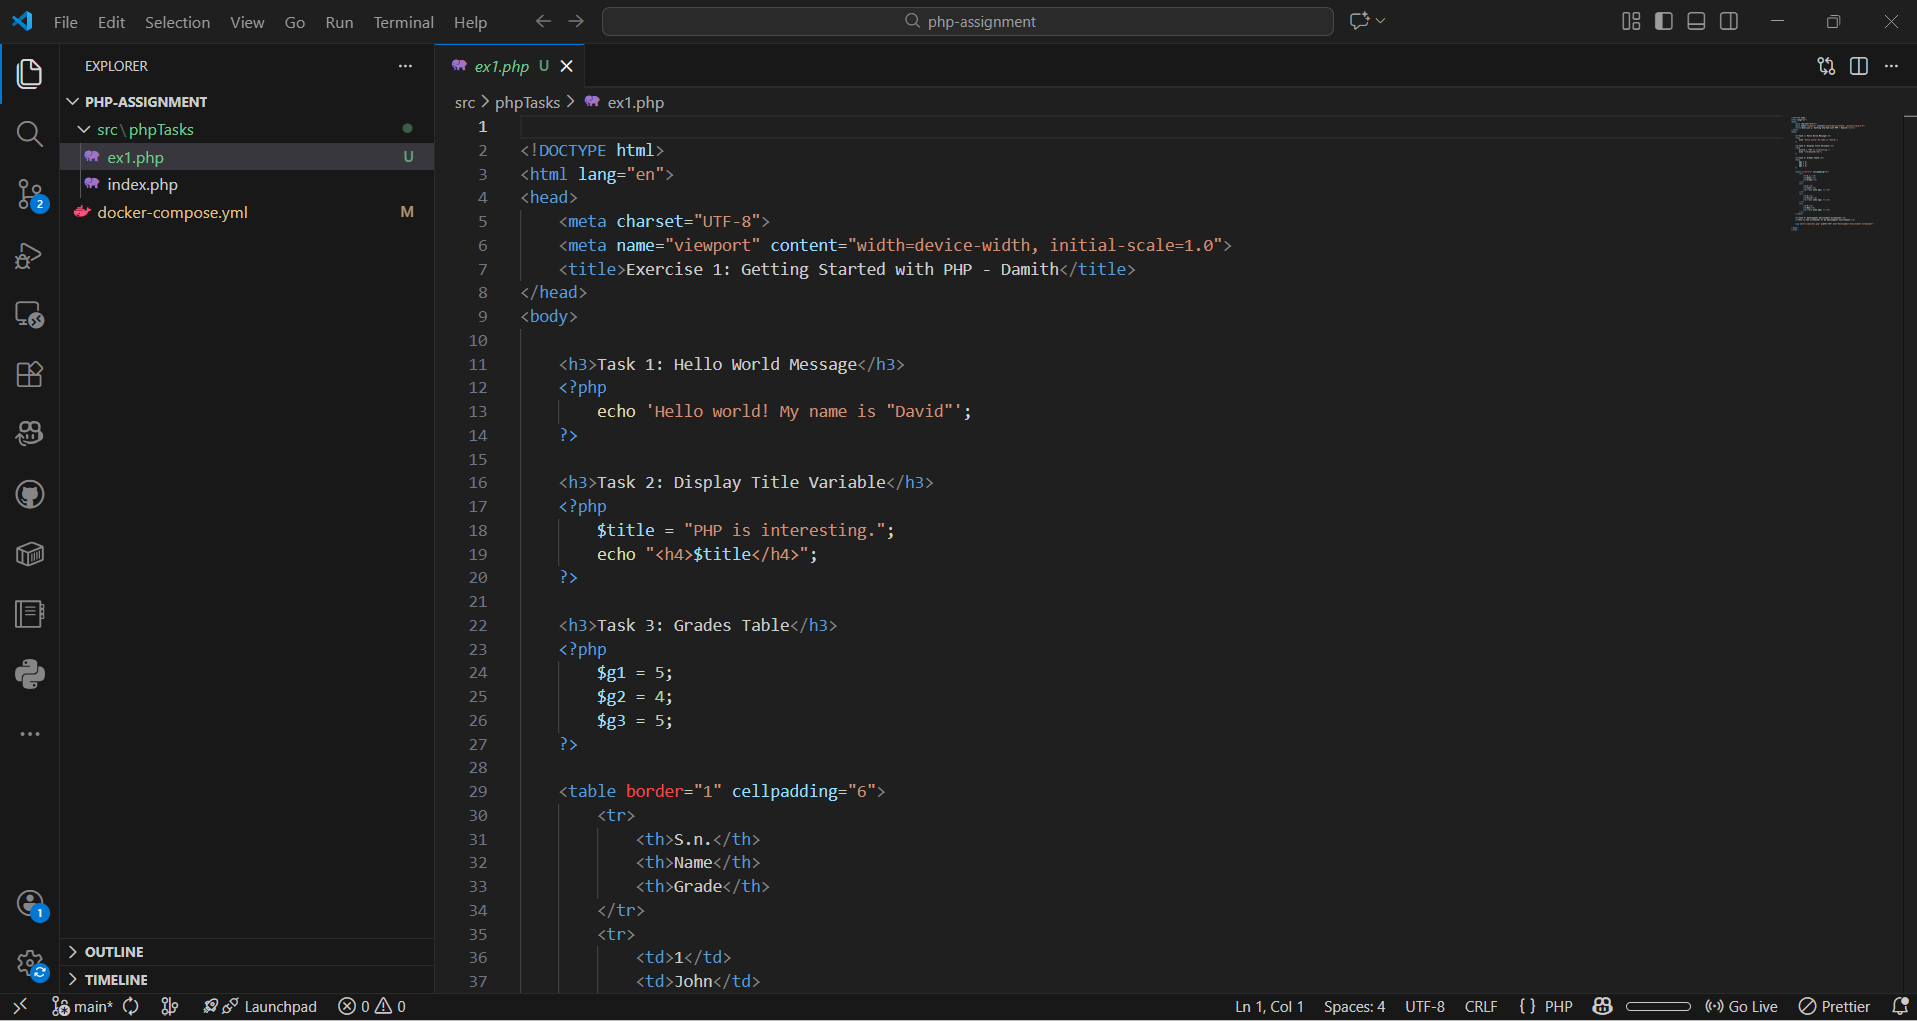
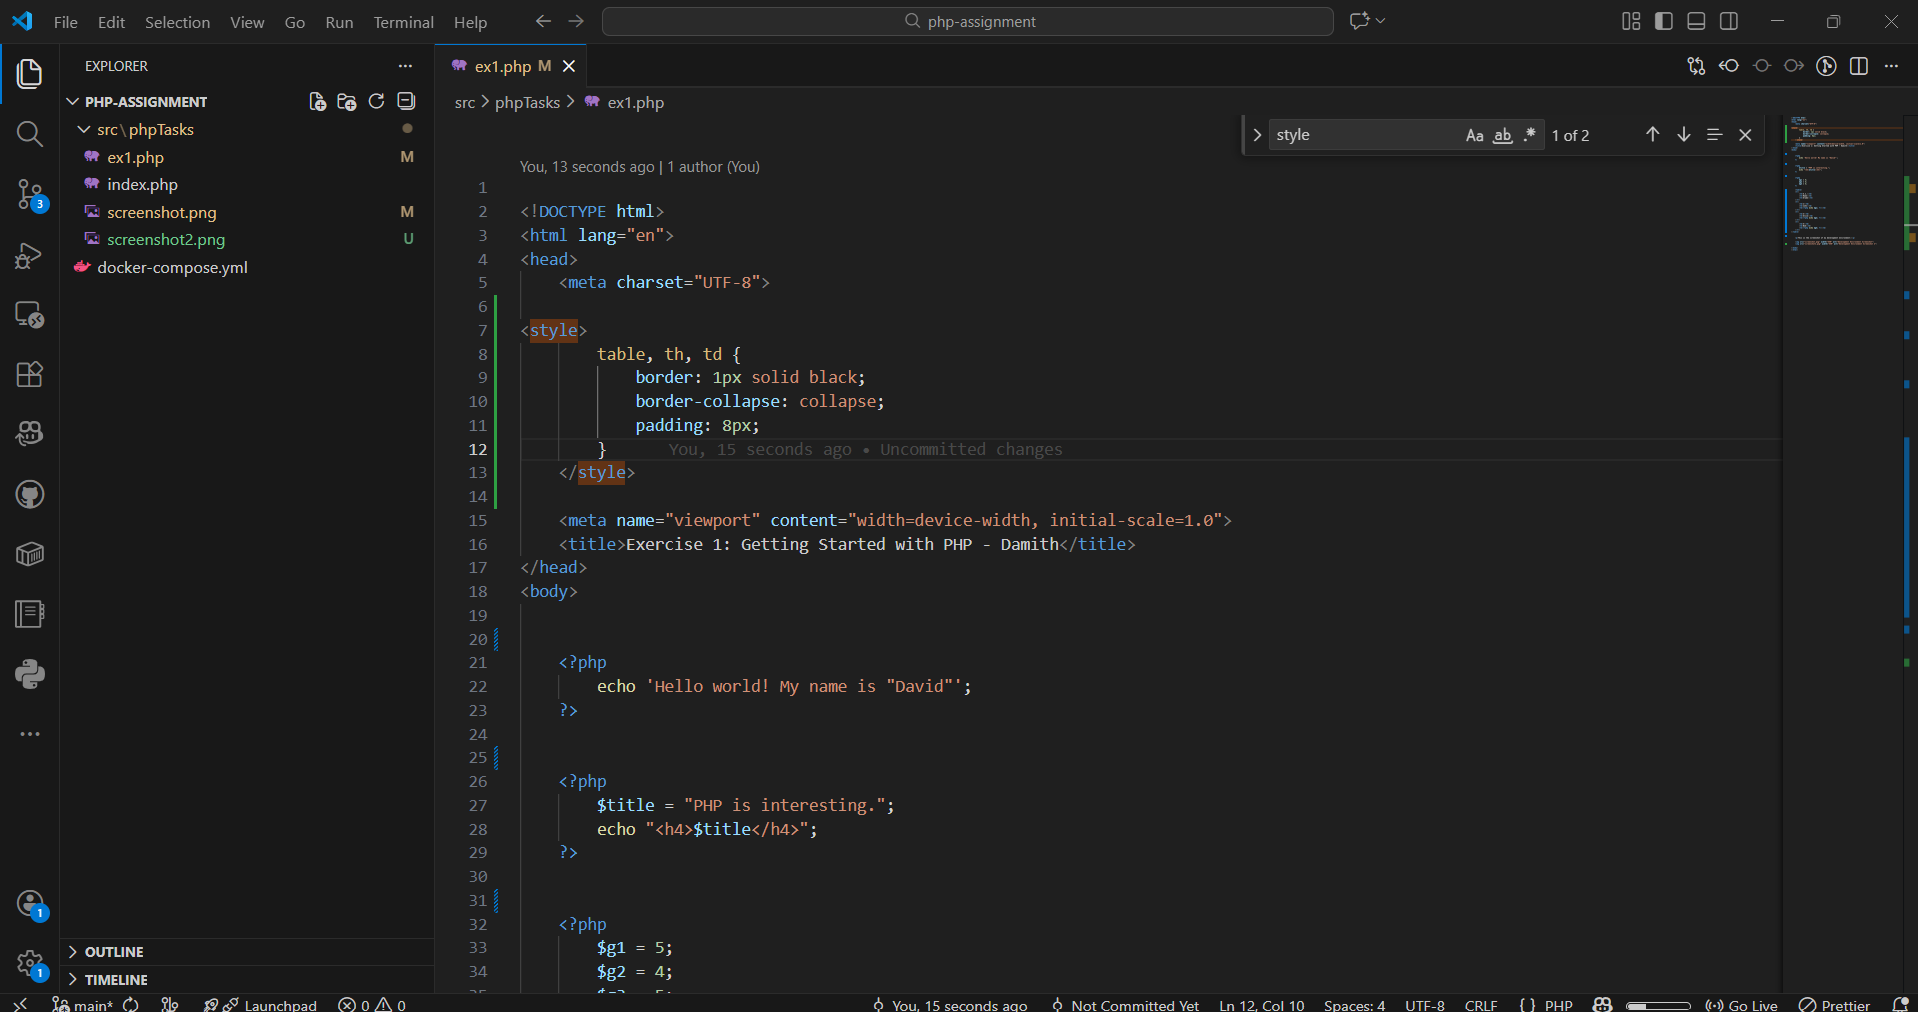
Update: PHP tasks, Docker changes, latest files

diff --git a/src/phpTasks/ex1.php b/src/phpTasks/ex1.php
@@ -3,56 +3,66 @@
 <html lang="en">
 <head>
     <meta charset="UTF-8">
+    
+<style>
+        table, th, td {
+            border: 1px solid black;
+            border-collapse: collapse;
+            padding: 8px;
+        }
+    </style>
+
     <meta name="viewport" content="width=device-width, initial-scale=1.0">
     <title>Exercise 1: Getting Started with PHP - Damith</title>
 </head>
 <body>
 
-    <h3>Task 1: Hello World Message</h3>
+   
     <?php
         echo 'Hello world! My name is "David"';
     ?>
 
-    <h3>Task 2: Display Title Variable</h3>
+   
     <?php
         $title = "PHP is interesting.";
         echo "<h4>$title</h4>";
     ?>
 
-    <h3>Task 3: Grades Table</h3>
+    
     <?php
         $g1 = 5;
         $g2 = 4;
         $g3 = 5;
     ?>
 
-    <table border="1" cellpadding="6">
-        <tr>
-            <th>S.n.</th>
-            <th>Name</th>
-            <th>Grade</th>
-        </tr>
-        <tr>
-            <td>1</td>
-            <td>John</td>
-            <td><?php echo $g1; ?></td>
-        </tr>
-        <tr>
-            <td>2</td>
-            <td>Alice</td>
-            <td><?php echo $g2; ?></td>
-        </tr>
-        <tr>
-            <td>3</td>
-            <td>Bob</td>
-            <td><?php echo $g3; ?></td>
-        </tr>
-    </table>
+    <table>
+    <tr>
+        <th>S.n.</th>
+        <th>Name</th>
+        <th>Grade</th>
+    </tr>
+    <tr>
+        <td>1</td>
+        <td>John</td>
+        <td><?php echo $g1; ?></td>
+    </tr>
+    <tr>
+        <td>2</td>
+        <td>Alice</td>
+        <td><?php echo $g2; ?></td>
+    </tr>
+    <tr>
+        <td>3</td>
+        <td>Bob</td>
+        <td><?php echo $g3; ?></td>
+    </tr>
+</table>
 
-    <h3>Task 4: Development Environment Screenshot</h3>
+    
     <p>This is the screenshot of my development environment:</p>
 
     <img src="screenshot.png" width="550" alt="Development Environment Screenshot">
+    <img src="screenshot2.png" width="550" alt="Development Environment Screenshot 2">
 
 </body>
 </html>
